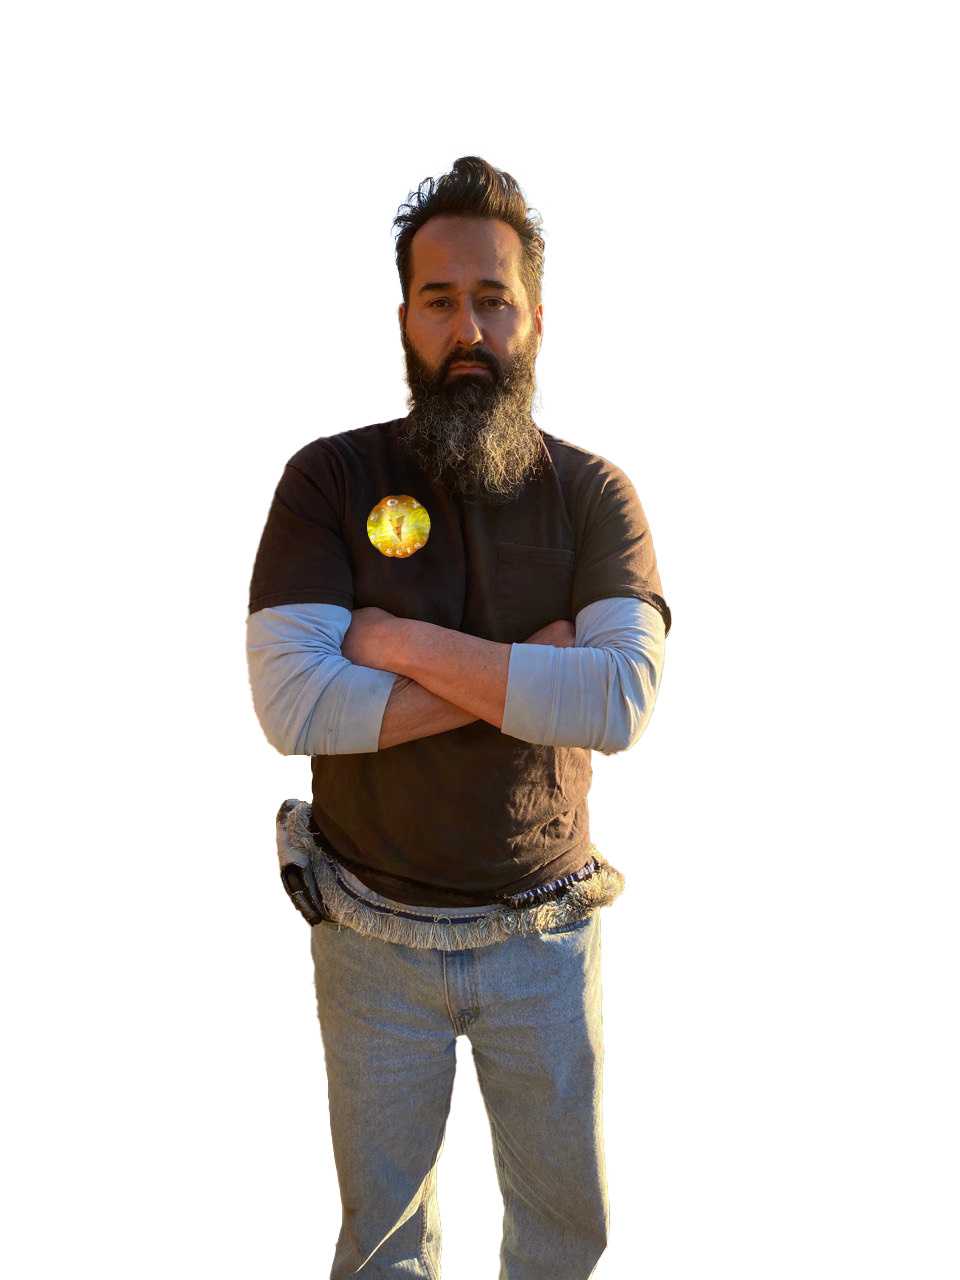
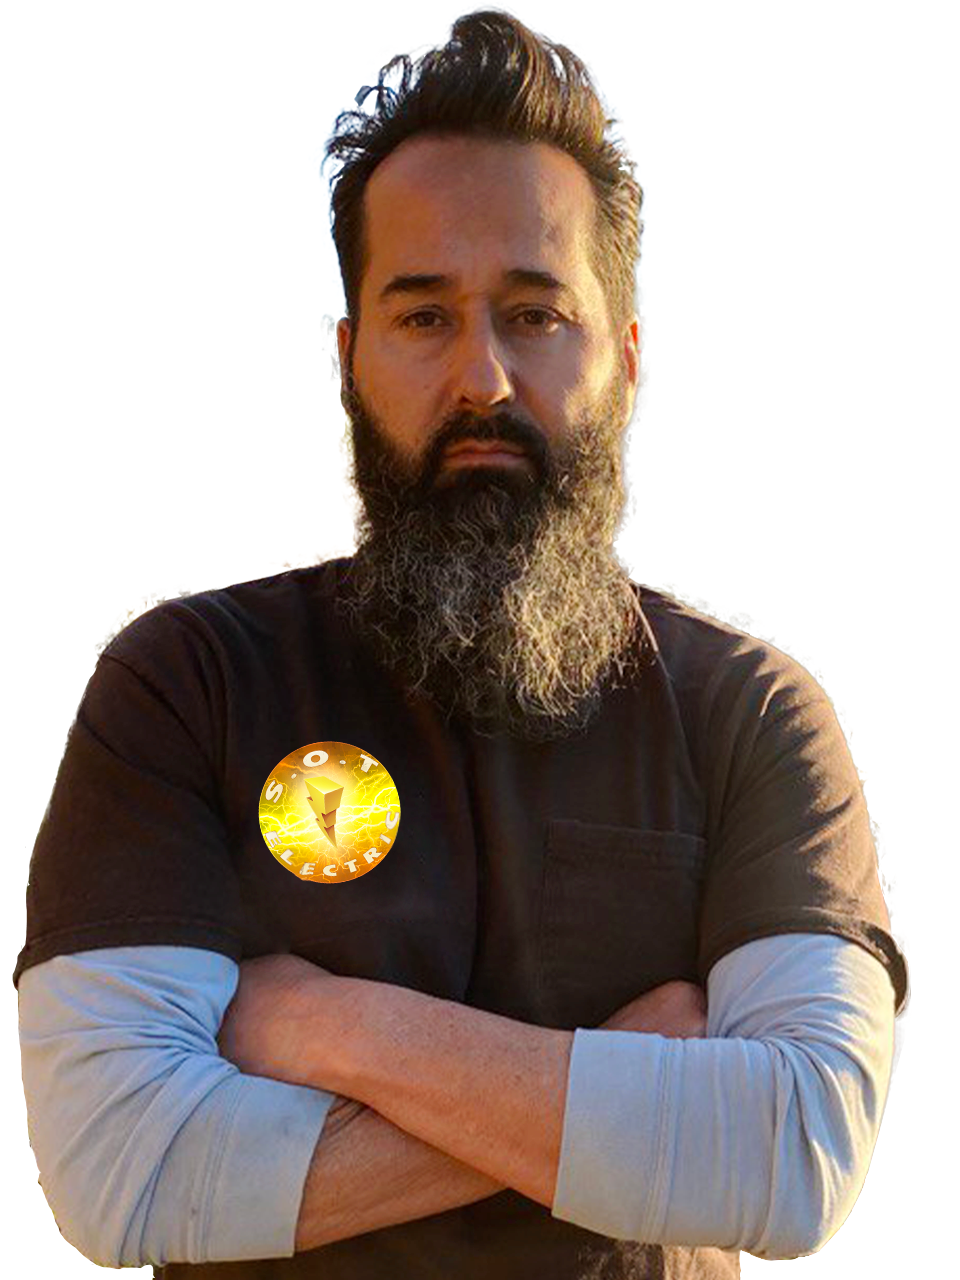
image

diff --git a/main_app/templates/home.html b/main_app/templates/home.html
@@ -23,12 +23,13 @@
 {% comment %} ABOUT {% endcomment %}
 <section class="about container" id="about">
     <div class="row">
-        <div class="col s12 m6">
-            <img class="" src="static/images/ofc.png" alt="ofc" width="250px">
+        <div class="col s12 m6 leon">
+            <img class="prof-img" src="static/images/ofc.png" alt="ofc" width="250px">
             <h5>Efrain De Leon</h5>
             <p>OWNER</p>
         </div>
         <div class="col s12 m6">
+            <h4 class="center">About Us</h4>
             <p>At Sons of Thunder Electrical, our mission is to provide the community with the best electrical services that will satisfy the needs and expectations of all our customers. With 20+ years of electrical experience, owner Efrain De Leon and his company take pride in giving nothing less than the best services around!</p>
         </div>
     </div>

diff --git a/main_app/static/css/style.css b/main_app/static/css/style.css
@@ -70,6 +70,14 @@ p {
   margin-bottom: 20px;
 }
 
+.leon {
+  margin-top: 25px;
+}
+
+.prof-img {
+  filter: drop-shadow(0 0 30px rgb(151, 149, 149))
+}
+
 .services-head {
   margin-top: 35px;
   margin-bottom: 20px;
